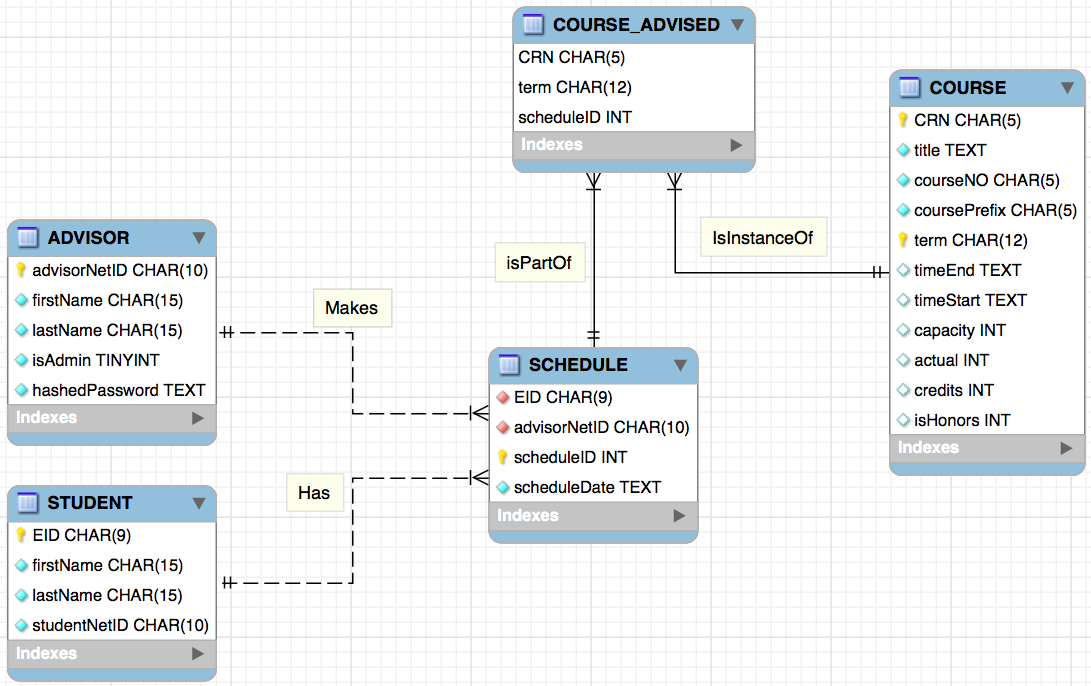
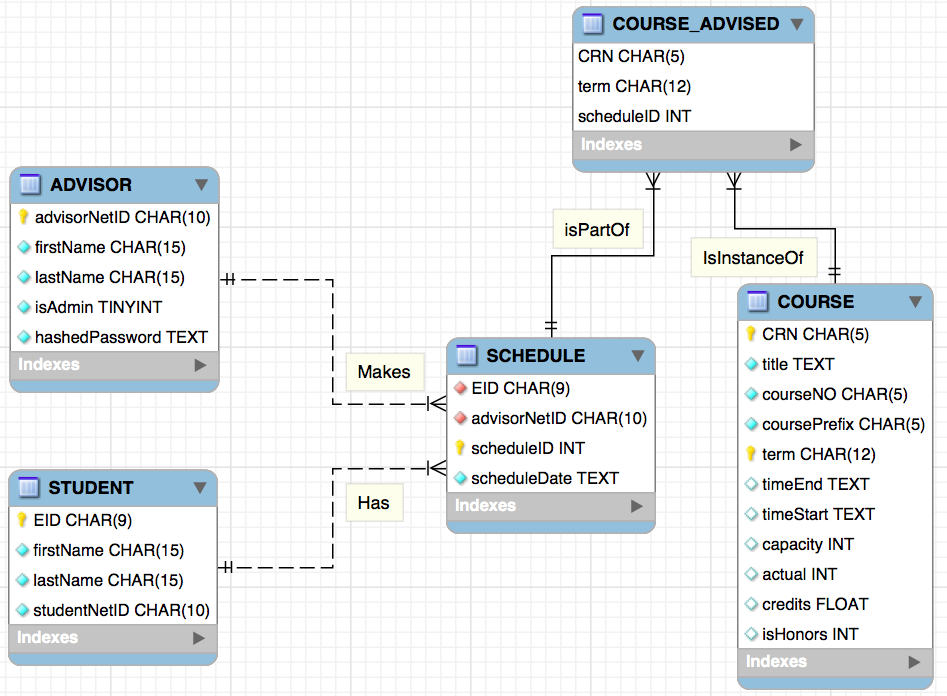
small updates; changed the credits field in course from an int to a double.

Changed region(s): [[0.0, 0.0, 1.0, 1.0]]

diff --git a/Database_Utilities/ProcessCourseFile/extractCourseInfo.py b/Database_Utilities/ProcessCourseFile/extractCourseInfo.py
@@ -1,5 +1,4 @@
 #!/usr/bin/python
-
 '''
 This program reads the winter 2016 course text file
 and prints out the extracted relevant information that we need.
@@ -22,20 +21,50 @@ term: not in line of file
 8 : isHonors
 '''
 
+# def makeFloat(floatString):
+
+
+def makeInt(intString):
+    """
+    Turns an integer-like string into an integer by trimming off the leading zeroes
+    and returning the integer corresponding to it
+    :param intString: (type: string)
+    :return: (type: int) int corresponding to the string
+    """
+    index_of_first_non_zero_digit = 0
+    for i in xrange(0, len(intString)):
+        if intString[i].isdigit() and intString[i] != '0':
+            index_of_first_non_zero_digit = i
+            break
+    trimmed_int_string = intString[index_of_first_non_zero_digit:]
+    return int(trimmed_int_string)
+
 f = open("../../prototype/wi2016.txt", "r")
 
 header = ['CRN', 'title', 'courseNO', 'coursePrefix', 'timeEnd', 'timeStart',
           'capacity', 'actual', 'credits', 'isHonors']
 headerString = ";".join(header)
 print headerString
+
+my_set = set()
+
 for line in f:
     comps = line.split(';')
+    my_set.add(comps[12].strip())
+    if comps[12].strip() == 'WW5':
+        print line
+        print "len: " + str(len(comps))
+    elif comps[12].strip() == '0122':
+        print line
+        print "len: " + str(len(comps))
+    '''
     subset = [comps[7].strip(), comps[9].strip(), comps[5].strip(), comps[4].strip(),
               comps[18].strip(), comps[17].strip(), comps[12].strip(), comps[14].strip(),
               comps[30].strip(), comps[8].strip()]
     lineToPrint = ';'.join(subset)
     print lineToPrint
-
+    '''
+print my_set
 '''
 line = f.readline()
 comps = line.split(";")
